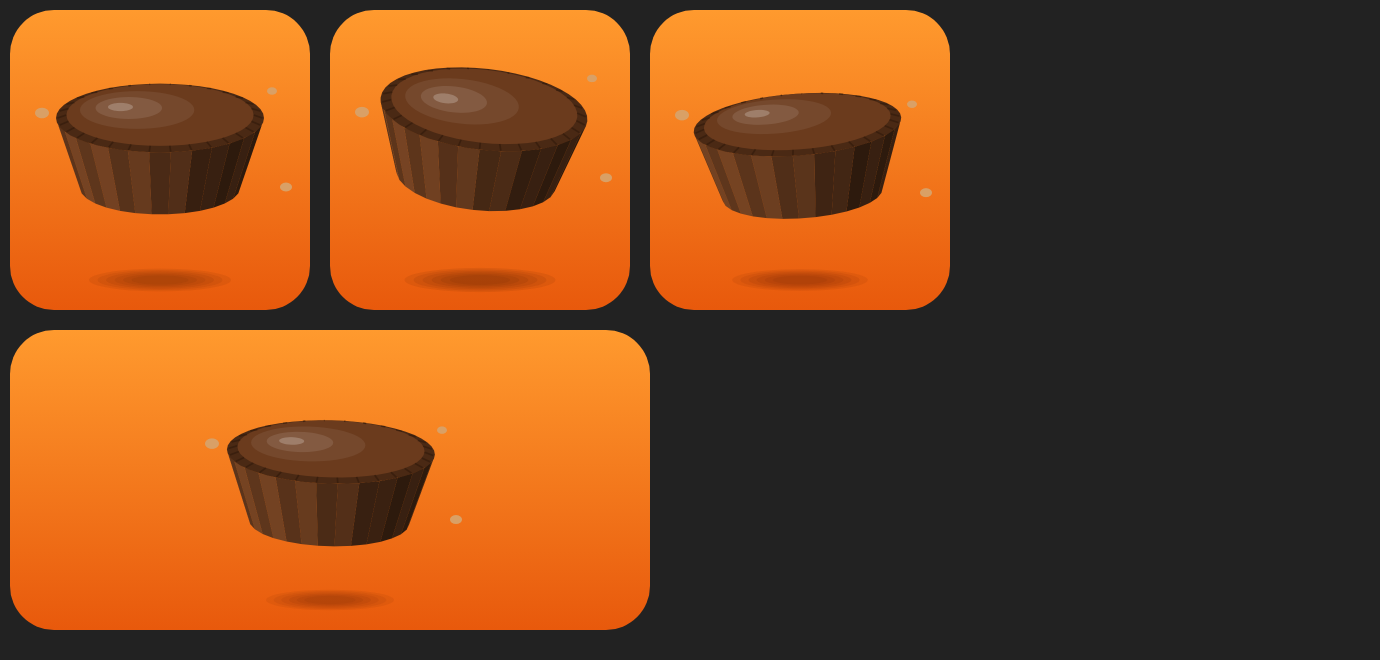
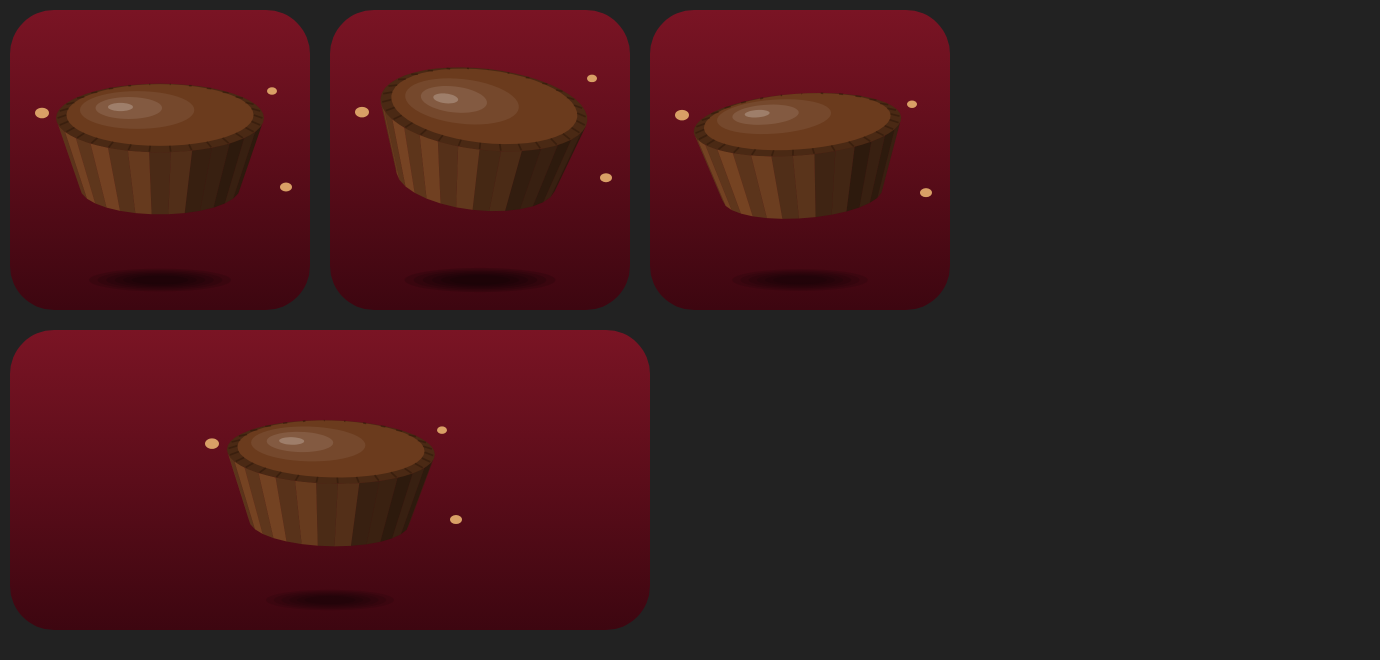
Use a dark maroon background for the peanut butter cup widget
Claude-Session: https://claude.ai/code/session_01Rdk5UrTdyYYBnQqL9tS2Dr

diff --git a/peanut-butter-cup.js b/peanut-butter-cup.js
@@ -21,8 +21,8 @@ const REFRESH_MINUTES = 30
 const PHOTO_NAMES = ["cup.png", "cup.jpg", "cup.jpeg"]
 
 // Colours
-const BG_TOP = "#ff9a2e"
-const BG_BOTTOM = "#e8590c"
+const BG_TOP = "#7a1424"
+const BG_BOTTOM = "#3d0610"
 const CHOCOLATE = [112, 64, 33]     // side of the cup
 const TOP_RIM = "#4a2914"
 const TOP_FILL = "#6b3b1d"
@@ -101,7 +101,7 @@ function drawShadow(ctx) {
     const ry = rx * 0.16
     const path = new Path()
     path.addEllipse(new Rect(cx - rx, groundY - ry, rx * 2, ry * 2))
-    fill(ctx, path, new Color("#5a1f00", 0.07 + (1 - lift) * 0.03))
+    fill(ctx, path, new Color("#000000", 0.1 + (1 - lift) * 0.04))
   }
 }
 

diff --git a/README.md b/README.md
@@ -88,7 +88,7 @@ if you want to see the number.
 
 # Peanut Butter Cup widget
 
-A second, just-for-fun widget: a 3D peanut butter cup floating over an orange
+A second, just-for-fun widget: a 3D peanut butter cup floating over a dark maroon
 background.
 
 ![Peanut butter cup widget preview](images/peanut-butter-cup-preview.png)
